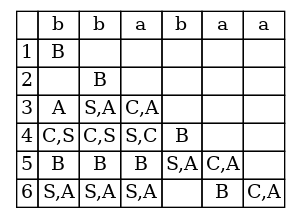
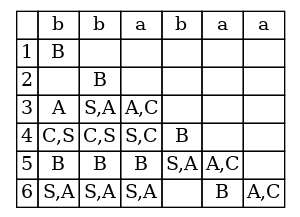
CYK changed a bit

Changed region(s): [[0.69, 0.7189, 0.81, 0.8018], [0.42, 0.4424, 0.54, 0.553], [0.81, 0.8295, 0.93, 0.9401]]

diff --git a/CFG-PDA-CYK-CNF/CYK.cpp b/CFG-PDA-CYK-CNF/CYK.cpp
@@ -2,8 +2,8 @@
 #include <fstream>
 #include<bits/stdc++.h>
 
-std::map<std::string, std::vector<std::vector<std::string>>> readCFG(const std::string& filename) {
-    std::map<std::string, std::vector<std::vector<std::string>>> grammar;
+std::unordered_map<std::string, std::vector<std::vector<std::string>>> readCFG(const std::string& filename) {
+    std::unordered_map<std::string, std::vector<std::vector<std::string>>> grammar;
 
     std::ifstream file(filename);
     if (!file.is_open()) {
@@ -33,17 +33,31 @@ std::map<std::string, std::vector<std::vector<std::string>>> readCFG(const std::
     return grammar;
 }
 
+/**
+ * @brief CYK algorithm to check if a given string can be derived from a given CFG
+ * Procedure
+ * 1. Initialize a table of size n x n where n is the length of the input string
+ * 2. Fill the table with the non-terminals that can derive the terminal symbols in the input string
+ * 3. For each length of the substring, iterate over the table and check if the non-terminals can derive the substring
+ * 4. If the start symbol is present in the table[0][n-1], then the input string can be derived from the grammar
+ * 
+ * @param input 
+ * @param grammar 
+ * @param start_symbol 
+ * @return std::vector<std::vector<std::unordered_set<std::string>>> 
+ */
+
 std::vector<std::vector<std::unordered_set<std::string>>> cyk(const std::string& input, 
-    const std::map<std::string, std::vector<std::vector<std::string>>>& grammar, const std::string& start_symbol) {
+    const std::unordered_map<std::string, std::vector<std::vector<std::string>>>& grammar, const std::string& start_symbol) {
     
     int n = input.size();
     std::vector<std::vector<std::unordered_set<std::string>>> table(n, std::vector<std::unordered_set<std::string>>(n));
-    for (int i = 0; i < n; ++i) {
+    for (int i = 0; i < n; ++i) { //Fill the diagonal of the table with the non-terminals that can derive the terminal symbols
         std::string terminal(1, input[i]);
-        for (const auto entry : grammar) {
+        for (const auto entry : grammar) { 
             const std::string non_terminal = entry.first;
             const std::vector<std::vector<std::string>>productions = entry.second;
-            for (const auto prod : productions) {
+            for(const auto prod : productions) {
                 if (prod.size() == 1 && prod[0] == terminal) {
                     table[i][i].insert(non_terminal);
                 }
@@ -51,19 +65,18 @@ std::vector<std::vector<std::unordered_set<std::string>>> cyk(const std::string&
         }
     }
 
+
+    //Fill the table with the non-terminals that can derive the terminal symbols in the input string
+    //For each length of the substring, iterate over the table and check if the non-terminals can derive the substring
+
     for (int len = 2; len <= n; len++) {
-        for (int i = 0; i <= n - len; i++) {
-            int j = i + len - 1;
-            for (int k = i; k < j; k++) {
-                for (const auto entry : grammar) {
-                    const std::string non_terminal = entry.first;
-                    const std::vector<std::vector<std::string>>productions = entry.second;
-                    for (const auto prod : productions) {
-                        if (prod.size() == 2) {
-                            const std::string A = prod[0];
-                            const std::string B = prod[1];
-                            if (table[i][k].count(A) && table[k + 1][j].count(B)) {
-                                table[i][j].insert(non_terminal);
+        for (int i = 0; i <= n - len; i++) { 
+            for (int k = i; k < i + len - 1; k++) {
+                for (const auto [non_terminal,productions] : grammar) { //For each non-terminal in the grammar
+                    for(const auto prod : productions) {
+                        if (prod.size() == 2) { //If the production is of the form A -> BC
+                            if (table[i][k].count(prod[0]) && table[k + 1][i+ len -1].count(prod[1])) {
+                                table[i][i + len -1].insert(non_terminal); //If the non-terminal can derive the substring, add it to the table
                             }
                         }
                     }
@@ -94,7 +107,7 @@ void visualizeCYKTable(const std::vector<std::vector<std::unordered_set<std::str
         file << "<TR><TD>" << i + 1 << "</TD>\n"; 
         for (int j = 0; j < n; ++j) { 
             file << "<TD>";
-            if(j <= i) {
+            if (j <= i) {
                 for (int x = 0; x < table[j][i].size(); x++) {
                     file << *std::next(table[j][i].begin(), x) ;
                     if (x < table[j][i].size() - 1) {
@@ -122,14 +135,14 @@ int main() {
     std::cin >> input;
 
 
-    std::map<std::string, std::vector<std::vector<std::string>>> grammar = readCFG(filename);
+    std::unordered_map<std::string, std::vector<std::vector<std::string>>> grammar = readCFG(filename);
     std::string start_symbol = "S"; 
     std::vector<std::vector<std::unordered_set<std::string>>> table = cyk(input, grammar, start_symbol);
     bool isParse = table[0][input.size() - 1].count(start_symbol) > 0;
 
-    if (isParse) {
+    if(isParse) {
         std::cout << "Input \"" << input << "\" can be derived from the grammar." << std::endl;
-    } else {
+    } else{
         std::cout << "Input \"" << input << "\" cannot be derived from the grammar." << std::endl;
     }
     visualizeCYKTable(table, input, "cyk_table");
